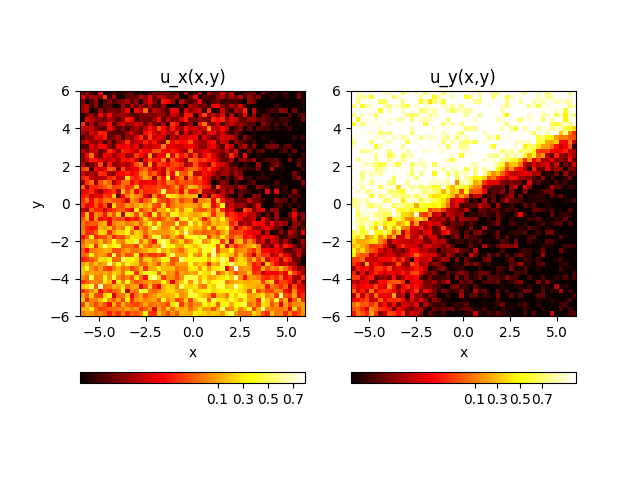
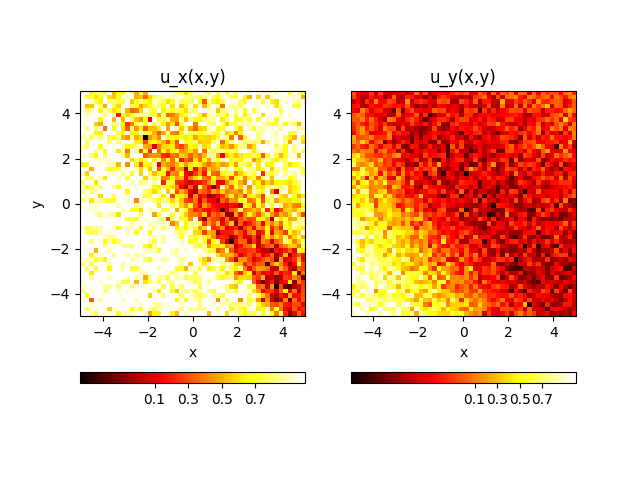
linear region visu seems correct

diff --git a/ddpg/utils.py b/ddpg/utils.py
@@ -106,8 +106,8 @@ def plotLinearRegion(agent: Agent, iter) -> None:
     border_polytope = pc.Polytope(A_border, b_border)
     box = pc.bounding_box(border_polytope)
 
-    regions = [Region(border_polytope, old_S=np.identity(2),
-                      old_w_actif=np.identity(2), old_b_actif=np.zeros((2, 1)))]
+    regions = [RegionReLU(border_polytope, old_S=np.identity(2),
+                          old_w_actif=np.identity(2), old_b_actif=np.zeros((2, 1)))]
 
     for layer in [agent.actorMain.l1, agent.actorMain.l2, agent.actorMain.l3]:
         weights = layer.weights
@@ -120,6 +120,22 @@ def plotLinearRegion(agent: Agent, iter) -> None:
             for kid in region.kids:
                 new_regions.append(kid)
         regions = new_regions
+
+    regionsPlu = []
+    for region in regions:
+        regionPlu = RegionPLU(polytope=region.polytope, old_S=region.old_S,
+                              old_w_actif=region.old_w_actif, old_b_actif=region.old_b_actif)
+        regionsPlu.append(regionPlu)
+    weights = agent.actorMain.lact.weights
+    new_regions = []
+    for region in regionsPlu:
+        region.compute_activation_weights(weights)
+        region.cut()
+        region.compute_S()
+        region.inherite_actif_para()
+        for kid in region.kids:
+            new_regions.append(kid)
+    regions = new_regions
 
     fig, ax = plt.subplots()
     for region in new_regions:
@@ -134,7 +150,7 @@ def plotLinearRegion(agent: Agent, iter) -> None:
     plt.close()
 
 
-class Region:
+class RegionReLU:
     def __init__(self, polytope: pc.Polytope, old_S=None, old_w_actif=None, old_b_actif=None):
         self.polytope = polytope
         self.old_w_actif = old_w_actif
@@ -155,13 +171,13 @@ class Region:
                               np.append(self.polytope.b, b))
             self.cuts.append(cut)
 
-        self.kids = [Region(self.polytope)]
+        self.kids = [RegionReLU(self.polytope)]
         for cut in self.cuts:
             copy = list(self.kids)
             for sub_region in copy:
-                first_kid = Region(sub_region.polytope.intersect(cut))
+                first_kid = RegionReLU(sub_region.polytope.intersect(cut))
                 if first_kid.polytope.volume > 0:
-                    second_kid = Region(
+                    second_kid = RegionReLU(
                         sub_region.polytope.diff(first_kid.polytope))
                     if second_kid.polytope.volume > 0:
                         self.kids.append(first_kid)
@@ -189,6 +205,44 @@ class Region:
         for kid in self.kids:
             kid.old_w_actif = self.w_actif
             kid.old_b_actif = self.b_actif
+
+
+class RegionPLU(RegionReLU):
+
+    def __init__(self, polytope: pc.Polytope, old_S=None, old_w_actif=None, old_b_actif=None):
+        super().__init__(polytope, old_S, old_w_actif, old_b_actif)
+
+    def cut(self):
+        W = self.w_actif
+        B = self.b_actif
+        for neuron in range(W.shape[0]):
+            w = np.array(W[neuron, :])
+            b = np.array(B[neuron])
+            cut1 = pc.Polytope(np.vstack((self.polytope.A, -w)),
+                               np.append(self.polytope.b, b - 1))
+            cut2 = pc.Polytope(np.vstack((self.polytope.A, w)),
+                               np.append(self.polytope.b, b - 0.5))
+            cut3 = pc.Polytope(np.vstack((self.polytope.A, -w)),
+                               np.append(self.polytope.b, b + 0.5))
+            cut4 = pc.Polytope(np.vstack((self.polytope.A, w)),
+                               np.append(self.polytope.b, b + 1))
+            self.cuts.append(cut1)
+            self.cuts.append(cut2)
+            self.cuts.append(cut3)
+            self.cuts.append(cut4)
+
+        self.kids = [RegionPLU(self.polytope)]
+        for cut in self.cuts:
+            copy = list(self.kids)
+            for sub_region in copy:
+                first_kid = RegionPLU(sub_region.polytope.intersect(cut))
+                if first_kid.polytope.volume > 0:
+                    second_kid = RegionPLU(
+                        sub_region.polytope.diff(first_kid.polytope))
+                    if second_kid.polytope.volume > 0:
+                        self.kids.append(first_kid)
+                        self.kids.append(second_kid)
+                        self.kids.remove(sub_region)
 
 
 def plotReward(episodeAvgScore) -> None:

diff --git a/ddpg/networks/actor.py b/ddpg/networks/actor.py
@@ -22,11 +22,11 @@ class Actor(keras.Model):
         "creates keras model of 3 dense layers followed by a custom piece-wise linear output"
         self.l0 = InputLayer(input_shape=self.stateDim)
         self.l1 = Dense(
-            self.layer1Dim, activation='relu')
+            self.layer1Dim, activation=keras.layers.LeakyReLU(alpha=0.01))
         self.l2 = Dense(
-            self.layer2Dim, activation='relu')
+            self.layer2Dim, activation=keras.layers.LeakyReLU(alpha=0.01))
         self.l3 = Dense(
-            self.layer3Dim, activation='relu')
+            self.layer3Dim, activation=keras.layers.LeakyReLU(alpha=0.01))
         # self.lact = PLULayer(self.actionDim)
         self.lact = Dense(self.actionDim, activation='tanh')
 

diff --git a/ddpg/agent.py b/ddpg/agent.py
@@ -15,8 +15,8 @@ class Agent():
     def __init__(self, num_actions, num_states) -> None:
         self.actionDim = num_actions
         self.stateDim = (num_states,)
-        self.actorMain = Actor(self.stateDim, self.actionDim, 3, 3, 3)
-        self.actorTarget = Actor(self.stateDim, self.actionDim, 3, 3, 3)
+        self.actorMain = Actor(self.stateDim, self.actionDim, 3, 5, 3)
+        self.actorTarget = Actor(self.stateDim, self.actionDim, 3, 5, 3)
         self.criticMain = Critic(self.stateDim, 1, 512, 512)
         self.criticTarget = Critic(self.stateDim, 1, 512, 512)
 
